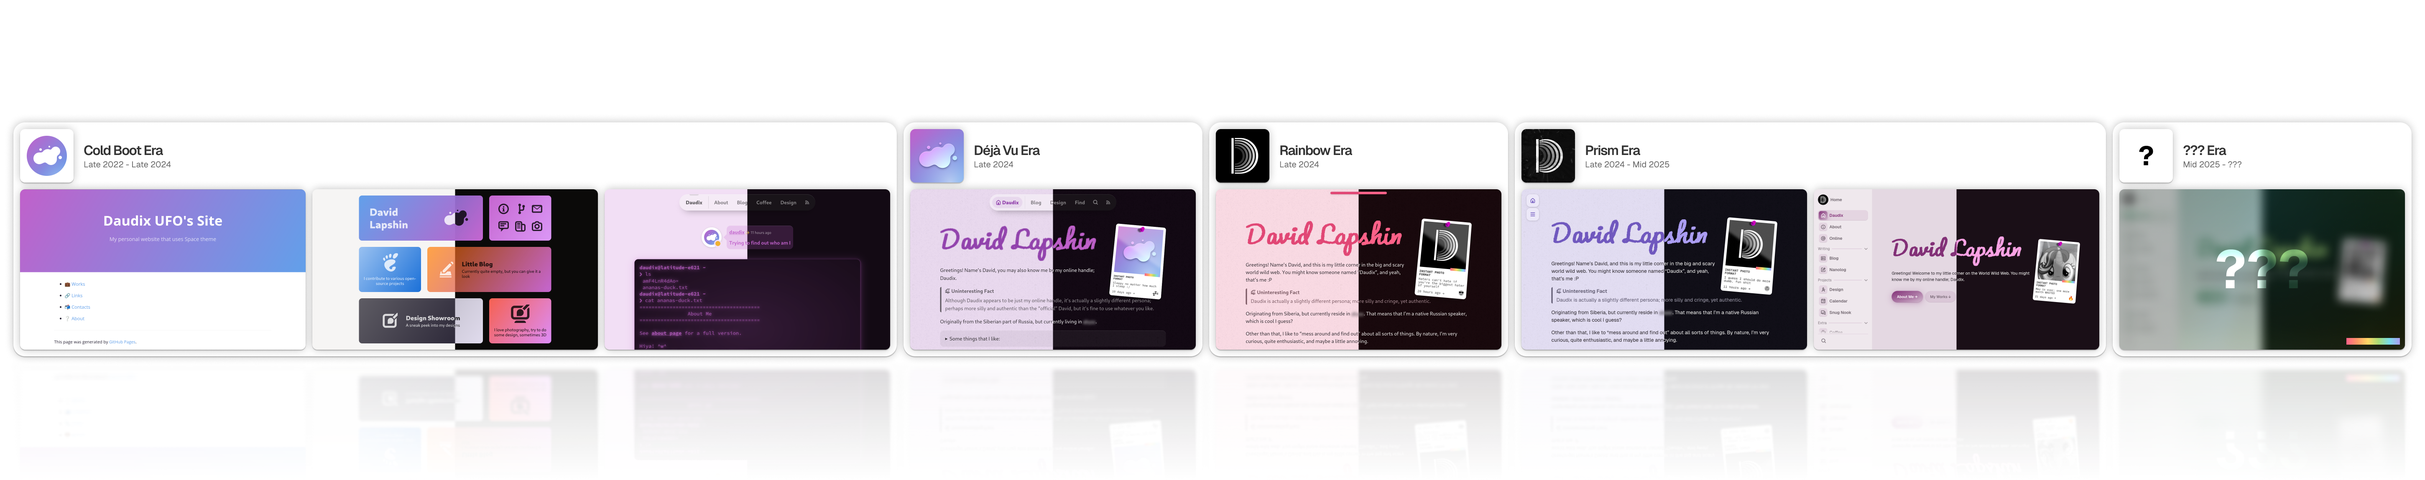
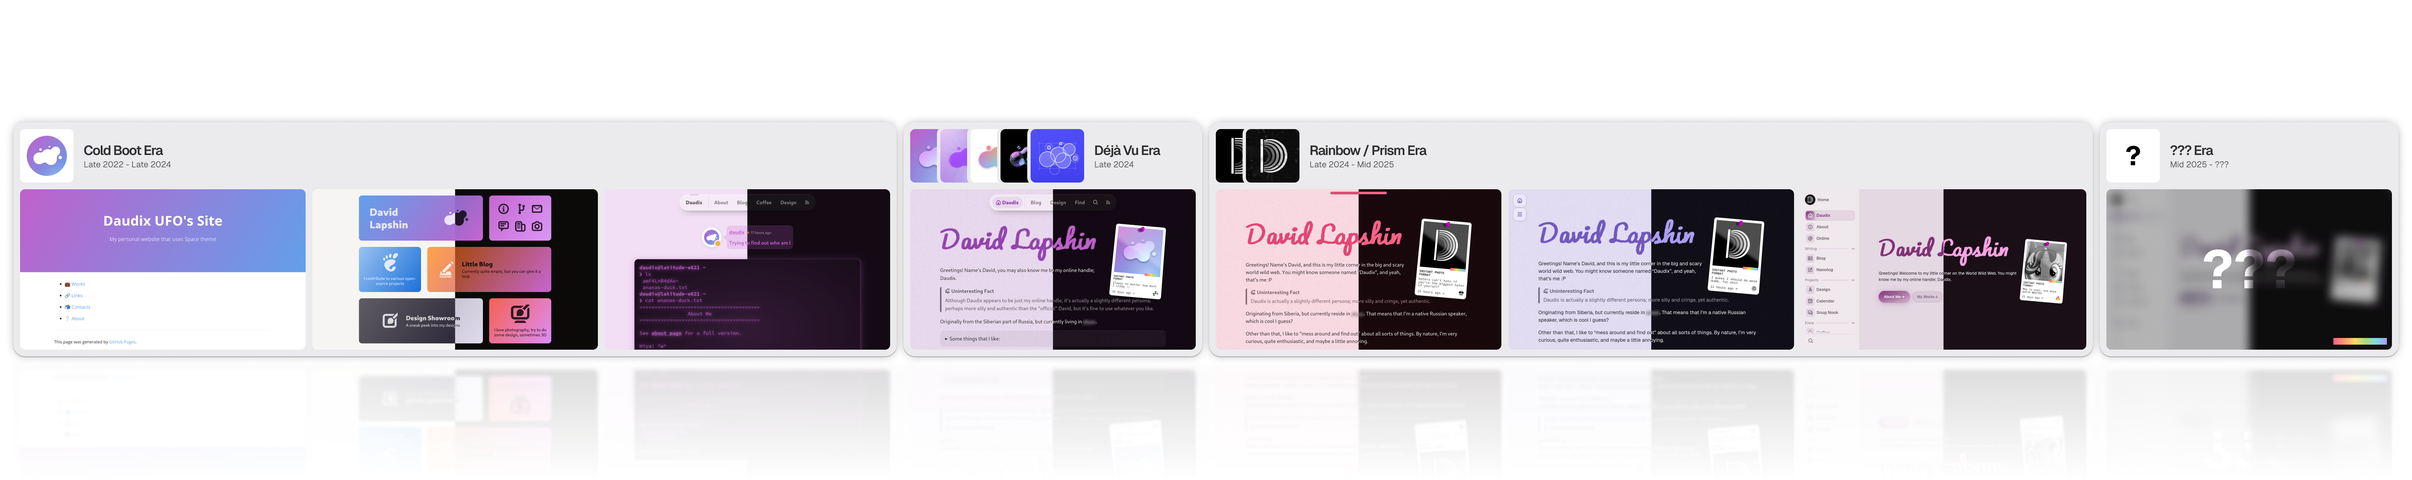
Update to Zola 0.21.0, fix redirects, more work on the blost

diff --git a/sass/blog/new-era/style.scss b/sass/blog/new-era/style.scss
@@ -4,12 +4,13 @@
 	margin-inline: -1rem;
 	margin-block: 1rem;
 	width: calc(100% + 2rem);
-	height: calc(rpx(2298) / 4);
+	height: rpx(575);
 	line-height: 0;
 
 	.overshoot-row {
 		height: 100%;
 		overflow: scroll;
+		scrollbar-width: thin;
 	}
 
 	picture {

diff --git a/templates/shortcodes/now_playing.html b/templates/shortcodes/now_playing.html
@@ -20,7 +20,7 @@
 			<span id="player-artist">Loading…</span>
 		</div>
 	</div>
-	<a id="player-go" href="#main-content">
+	<a id="player-go" href="#main-content" title="View on Last.fm">
 		{{- macros_icon::icon(name="caret-right") -}}
 	</a>
 </article>

diff --git a/content/blog/2025-06-25-new-era/index.md b/content/blog/2025-06-25-new-era/index.md
@@ -12,17 +12,22 @@ styles = ["blog/new-era/style.css"]
 id = ""
 +++
 
-Hello again. Time to talk a bit about my recent changes to this website, plans for this blog, and what to expect, and One More Thing™.
+- Make sure to replace player screenshot with a variant with transparency, i.e. take the node screenshot in epiphany
+- Use footnote for the API hack thing
+- Mention heavy focus shift from fedi to bsky
 
-## Changes: Website
+***
 
-This website has undergone numerous changes in the past... *looks at wall calendar* ...almost half a year (dear God how did it pass by this fast I'm gonna cry), though most of this time I've been working on Ametrine.
+Time to talk a bit about my recent changes to this website, plans for this blog, and One More Thing™.
+
+## Website Changes
+
+This website has undergone numerous changes in the past... *looks at wall calendar* ...almost half a year (dear God how did it pass by this fast I'm gonna cry), though most of this time I've been working on Ametrine, and a bit more so procrastinating and trying my best to not fall.
 
 ### Ametrine
 
-{% alert(note=true) %}
-[Ametrine](https://ametrine.daudix.one) is a new theme of mine. It’s the successor to Duckquill, with a new look, some features added, and some removed. Its goal is to be more flexible and modular than Duckquill.
-{% end %}
+> [!NOTE]
+> [Ametrine](https://ametrine.daudix.one) is a new theme of mine. It’s the successor to Duckquill, with a new look, some features added, and some removed. Its goal is to be more flexible and modular than Duckquill.
 
 One might ask, “hold on, didn’t you *just* [switch away from Duckquill](@/blog/2024-11-02-decoupling-from-duckquill/index.md) to an in-house solution?” And the answer would be... yes.
 
@@ -42,26 +47,23 @@ Fuzzy, I know, but I’ll talk more about Ametrine itself in a follow-up post so
 
 We have quite some changes here:
 
-- [100DaysToOffload](@/100daystooffload/index.md) page has been removed, now it redirects to the tag with the same name, under which all posts with it are listed, serving the same purpose.
+- [100DaysToOffload](@/100daystooffload/_index.md) page has been removed, now it redirects to the tag with the same name, under which all posts with it are listed, serving the same purpose.
 - [Badges](@/badges/index.md) page has been introduced, it contains all the badges and stamps (aka Bumps) from my Neocities site, from which these might soon be removed.
-- [About](@/about/index.md) and [online](@/online/index.md) pages have been merged with [home](@/home/index.md). Useless information has been removed in process, keeping only the essentials. This is to make sure homepage provides all the info at a glance. This decision has been made after looking at statistics, which suggest that subpages get times less visitors than the homepage, and as the purpose of this website is to be a central hub of me on the web, it should fulfill this purpose.
+- [About](@/about/_index.md) and [online](@/online/_index.md) pages have been merged with [home](@/home/index.md). Useless information has been removed in process, keeping only the essentials. This is to make sure homepage provides all the info at a glance. This decision has been made after looking at statistics, which suggest that subpages get times less visitors than the homepage, and as the purpose of this website is to be a central hub of me on the web, it should fulfill this purpose.
 - [Commissions](@/commissions/index.md) have lost most of the services except for a few. Only services that I'm certain I can complete in the best manner have remained.
-- [Snug Nook](@/snug-nook/index.md) was completely redone. Essential info is now presented via fully dynamic widget, which by the way uses an interesting hack; Discord widget API (`https://discord.com/api/guilds/<GUILD_ID>/widget.json`) doesn't expose server icon, description, total member count, and basically any other useful info about the server, however, it does expose an automatically generated invite link (that's being regenerated every now and then), which *does* expose said info via the `https://discord.com/api/invites/<INVITE_CODE>?with_counts=true` endpoint. And so by trimming the `https://discord.com/invite/` bit of the auto-generated invite link we get said invite code. Two API calls, yes, but we get all the info without any additional services or hardcoding anything. I couldn't find any mentions of this hack online, so we might be the first to use it?
+- [Snug Nook](@/snug-nook/index.md) was completely redone. Essential info is now presented via fully dynamic widget, which by the way uses an interesting Discord widget API hack[^1] that I couldn't find any mentions of online, so we might be the first to use it?
 - [Design](@/design/index.md) styling was adjusted to better fit the new design. It now also follows the light/dark mode preference like the rest of the site, instead of being hardcoded to dark mode.
 - [Home](@/home/index.md) besides inheriting "about" and "online" pages' info also got a brand new widget: "Now Playing" powered by Last.fm. Not only it displays currently playing track live, but it also switches to "Last Played" if nothing is playing or playback is paused, accompanied by a nice CD (which is taken from elementary OS icon theme :P) animation. I have experimented with using Discord Rich Presence (RPC) to display not only this but also other activities, but it didn't expose last played song and was much, much more complex, so it was scrapped.
-![](player.png)
 
 ### Source Code
 
 Throughout the site's existence, it was always completely open (not necessarily FOSS), nothing was developed behind closed doors, and deployment always matched the source code at any period in time.
 
-Ever since I [moved away from GitHub](@/blog/2023-07-15-migration-from-github-to-codeberg/index.md) it was hosted on Codeberg, I enjoyed it this entire time despite occasional, sometimes unconventional, downtimes. Recently however they introduced new size limits for, and I quote <q>repositories that are for personal use (e.g. "my website", "my dotfiles"</q>. And as you could guess, my website falls into that category. The new limit for such repositories is 100MB compared to the old 500MB limit. Mine was 200MB+, so I had to move it to GitHub, first as a private repository to prevent Copilot from training its code on it, but then I gave up and chose continuing being open over integrity of my code's originality (it's not very original, rather a compilation of StackOverflow answers, CSS Tricks, and random Git repositories). I have considered moving to my [friend's Forgejo instance](https://git.rootsource.cc), but it doesn't have any sort of CI, so it's not an option at the moment.
+Ever since I [moved away from GitHub](@/blog/2023-07-15-migration-from-github-to-codeberg/index.md) it was hosted on Codeberg, I enjoyed it this entire time despite occasional, sometimes unconventional, downtimes. Recently however they introduced new size limits for, and I quote <q>repositories that are for personal use (e.g. 'my website', 'my dotfiles'</q>. And as you could guess, my website falls into that category. The new limit for such repositories is 100MB compared to the old 500MB limit. Mine was 200MB+, so I had to move it to GitHub, first as a private repository to prevent Copilot from training its code on it, but then I gave up and chose continuing being open over integrity of my code's originality (it's not very original, rather a compilation of StackOverflow answers, CSS Tricks, and random Git repositories). I have considered moving to my [friend's Forgejo instance](https://git.rootsource.cc), but it doesn't have any sort of CI, so it's not an option at the moment.
 
 ### Branding
 
-I have slightly deemphasized my official "branding" and now combine it with things like Discord profile picture. Other badge/88x31 variants has been added as part of this initiative, they're not new, simply older versions and ones from other sites (Neocities).
-
-I'm planning to design a new profile picture in the near future, but at the moment I don't have anything at hand.
+I'm planning to design a new profile picture in the near future, but at the moment I don't have anything at hand, so in the meantime I have slightly deemphasized my official "branding" and now combine it with things like Discord profile picture. Other badge/88x31 variants has been added as part of this initiative, they're not new, simply older versions and ones from other sites (Neocities).
 
 ### Vercel No More
 
@@ -77,33 +79,21 @@ Duckquill and Ametrine were also moved to Netlify because why not.
 
 TL;DR: I like Netlify and Umami as opposed to Vercel and its built-in analytics so far, we'll see how it goes. I still like Vercel by the way, it's just that it doesn't play well with my current setup.
 
-### New Look
+## 100DaysToOffload No More
 
-We now have an Aero-like theming, it's not super accurate, but that wasn't the goal, if it will make someone go "wow this looks familiar, I miss this kind of design" it means I've succeeded. This look is likely temporarily, as there are a lot of fundamental issues with it, but despite that, it looks nice. The background used at this moment is one from Windows Bluehorn (aka Vista development era).
+For the past year I've been [participating](@/100daystooffload/_index.md) in a challenge called [100DaysToOffload](https://100daystooffload.com), and now it is officially over with 31 questionable posts and severe burnout. A bit sad but honestly it's such a relief; this challenge messed up my mental health quite a bit, even if I didn't write much, the feeling of always being under the pressure and forcing myself to come up with post ideas was exhausting. [Taking breaks](@/blog/2024-09-02-taking-a-break/index.md) did not help, it took me almost half a year of not writing anything to get back in shape.
 
-<small>I love Aero. I miss it despite never actually using Windows Vista or 7.</small>
-
-![](aero.png)
-
-## Changes: Blog
-
-Welp, time for some heavy meta.
-
-### 100DaysToOffload
-
-For the past year I've been [participating](@/100daystooffload/index.md) in a challenge called [100DaysToOffload](https://100daystooffload.com), and now it is officially over with 31 questionable posts and severe burnout. A bit sad but honestly it's such a relief; this challenge messed up my mental health quite a bit, even if I didn't write much, the feeling of always being under the pressure and forcing myself to come up with post ideas was exhausting. [Taking breaks](@/blog/2024-09-02-taking-a-break/index.md) did not help, it took me almost half a year of not writing anything to get back in shape.
-
-I wanted to quit it multiple times, but I have set myself a goal to *not* quit it, no matter what, and finish it even if I don't complete it. And so I did, yay. Proving to myself that I am capable of not quitting something prematurely for a year, despite all kinds of obstacles, is valuable to me.
+I wanted to quit it multiple times, but I have set myself a goal to *not* quit it, no matter what, and finish it even if I don't complete it. And so I did, yay. Proving to myself that I am capable of not quitting something prematurely, despite all kinds of obstacles, is valuable to me <span class="spoiler solid">(it's not just about 100DaysToOffload, is it?)</span>.
 
 ![](100daystooffload.jpg)
 
 Now that the results are documented, I can blog at my own pace, with "quality over quantity" approach and...
 
-### Reissue Old Articles
+## Reissue Old Articles
 
-It's no surprise that a big chunk of 100DaysToOffload posts lack quality; they were rushed, are badly written, and don't effectively get the point across. Because of this, I will gradually rewrite such posts, add/remake banners, and replace them with reissues. Title/permalink might change, but I'll try minimize link rot by utilizing redirects, if possible. Some other posts will be unpublished without ever being reissued, but there aren't much such posts.
+It's no surprise that a big chunk of 100DaysToOffload posts lack quality; they were rushed, are badly written, and don't effectively get the point across. Because of this, I will gradually rewrite such posts, add/remake banners, re-tag them, and replace them with reissues. Title/permalink might change, but I'll try minimize link rot by utilizing redirects, if possible. Some other posts will be unpublished without ever being reissued, but there aren't much such posts.
 
-### My Own Blog
+## A Blog of My Own
 
 Type of promise presidents make during inauguration: "I'll try to blog about whatever I want".
 
@@ -119,7 +109,7 @@ Poll results suggest that majority is in favor of this.
 
 ![](poll-results.png)
 
-Yes, it's only 10 votes, but look at it this way: It's a whooping *10* votes!!1
+Yes, it's only 10 votes, but look at it this way: It's a whopping *10* votes!!1
 
 In the end I'm left uncertain as to what to do with Neocities after this, all that is left is a homepage that provides no info and somewhat cool styling, and a fun 404. I don't want it to go down the [gmi.daudix.one](https://gmi.daudix.one) path of dying silently.
 
@@ -129,24 +119,24 @@ Behold... the title of this article, finally!
 
 Okay so what's this all about.
 
-The concept of eras isn't something new, even for myself; My first era titled "Cold Boot" started back in late 2022. It was always a behind the scenes thing that wasn't really public besides folder names in the ["assets" repository](https://github.com/daudix/assets/tree/main/daudix). I have considered expanding this concept half a year ago, on December 10th, 2024. This idea didn't go beyond this mockup however, as I considered it way too silly of an idea. Profile pictures continued using this approach internally though, for example my previous era was called "Prism", which was a continuation of the "Rainbow" era.
+I like to split my work and my own self into loosely defined "eras", each era marks a chapter in my life, and is usually accompanied by a profile picture redesign and/or website design refresh.
+
+My first era, titled "Cold Boot". started back in late 2022. Eras were always a "behind the scenes" thing that wasn't really public besides folder names in the ["assets" repository](https://github.com/daudix/assets/tree/main/daudix). I have considered expanding this concept <abbr title="December 10th, 2024">half a year ago</abbr>. This idea didn't go beyond this mockup however, as I deemed it way too silly of an idea. Profile pictures continued using this approach internally though, for example my previous era was called "Prism", which was a continuation of the "Rainbow" era.
 
 ![](eras-old.png)
 
-Recently however, I came across Vylet's video explaining her eras, which is relatable in so many ways and is pretty much what I was going to do. It have inspired me to push this idea further, and whilst I won't maintain a spreadsheet of each era like she do, I too will have some era separation, and will borrow the idea of naming eras retroactively.
+Recently however, I came across Vylet's video explaining her eras, which is relatable in so many ways and is pretty much what I was going to do, it's just crazy. It have inspired me to push this idea further, and whilst I won't maintain a spreadsheet of each era like she does, I too will have a more public era separation, and will be naming eras retroactively from now on.
 
 {{ youtube(id="7rZsiF2nckA", start="257") }}
 
-What is the era stuff, precisely? I'll quote Vylet from that video, as I couldn't say it better and it matches my own vision:
-
 > Each era represents a substantial time in my life, defined by paradigm shifts, life changes, and overall project direction. I intend to name these with retrospect, so every new era will simply begin as three question marks, and then will be named when it becomes apparent when to find that part of my life in work.
 
-And so, here is my current era timeline.
+And so, here is my current "era timeline".
 
 <div id="eras-timeline">
     <div class="overshoot-row">
         <picture>
-            <source srcset="eras-dark.png"  media="(prefers-color-scheme: dark)"/>
+            <source srcset="eras-dark.png"  media="(prefers-color-scheme: dark)" />
             <img src="eras.png" class="transparent no-hover" />
         </picture>
     </div>
@@ -155,8 +145,14 @@ And so, here is my current era timeline.
   <a href="eras-hd.png">View in Full Resolution</a>
 </div>
 
-Why current era is blurred and untitled? That's the fun part; this era is ongoing, the screenshot is not final, and as I already mentioned, era cannot be titled yet as they're titled retroactively. Visually changes between eras aren't huge, but it's not just about website visuals, isn't it?
+Current era is blurred and untitled, as this era is still ongoing, the screenshot is not final, and as I already mentioned, era cannot be titled yet as they're titled retroactively. Visually changes between eras aren't huge, but it's not just about website visuals, isn't it?
+
+## Mental Health
+
+It was rough. I survived, however.
 
 ## Conclusion
 
-This blog post is a little summary of what I was doing and planning to do for a while, and I hope that this will mark a new more hopeful chapter in my life and this blog. Thanks for reading, caring, and just, being here. Can't wait to see you in the next one!
+This blog post is a little summary of what I was doing and planning to do for a while, and I hope that this will mark a new, more hopeful chapter in my life and this blog. Thanks for reading, caring, and just being here. Can't wait to see you in the next one!
+
+[^1]: Discord widget API (`https://discord.com/api/guilds/<GUILD_ID>/widget.json`) doesn't expose server icon, description, total member count, and basically any other useful info about the server, however, it does expose an automatically generated invite link (that's being regenerated every now and then), which *does* expose said info via the `https://discord.com/api/invites/<INVITE_CODE>?with_counts=true` endpoint. And so by trimming the `https://discord.com/invite/` bit of the auto-generated invite link we get said invite code. Two API calls, yes, but we get all the info without any additional services or hardcoding anything.

diff --git a/content/blog/2024-08-13-deploying-to-codeberg-pages/index.md b/content/blog/2024-08-13-deploying-to-codeberg-pages/index.md
@@ -17,9 +17,8 @@ id = "112956494344143118"
 
 <small>Photo by [Lubomir Minar](https://www.lubomirminar.com) on [Unsplash (archived)](https://web.archive.org/web/20210124002804/https://unsplash.com/photos/3K6ZkYBj2Xo).</small>
 
-{% alert(note=true) %}
-This guide focuses on the Zola <abbr title="Static site generator">SSG</abbr>, but other SSGs like Hugo and Jekyll should work with this guide as well.
-{% end %}
+> [!NOTE]
+> This guide focuses on the Zola <abbr title="Static site generator">SSG</abbr>, but other SSGs like Hugo and Jekyll should work with this guide as well.
 
 This guide is intended to help with the process of getting a Zola website up and running using Codeberg and Codeberg pages; some of the steps are confusing, so this article tries to clear them up.
 
@@ -72,9 +71,8 @@ Then, initialize a new Zola site with `zola init --force`. You can simply spam <
 
 Now you'll need to add the Duckquill theme as a Git submodule:
 
-{% alert(note=true) %}
-A Git submodule is a repository inside another repository. When you add a submodule, Git adds it to a special `.gitmodules` file, which can then be read by Git somewhere else and clone the needed repository in place, which will be helpful later when we set up the <abbr title="Contineventuous integration">CI</abbr> workflow.
-{% end %}
+> [!NOTE]
+> A Git submodule is a repository inside another repository. When you add a submodule, Git adds it to a special `.gitmodules` file, which can then be read by Git somewhere else and clone the needed repository in place, which will be helpful later when we set up the <abbr title="Contineventuous integration">CI</abbr> workflow.
 
 ```bash
 git submodule init
@@ -88,9 +86,8 @@ cd themes/duckquill
 git checkout tags/v4.2.1
 ```
 
-{% alert(tip=true) %}
-You can check the latest release here: <https://codeberg.org/daudix/duckquill/releases>
-{% end %}
+> [!TIP]
+> You can check the latest release here: <https://codeberg.org/daudix/duckquill/releases>
 
 Now you can try serving the site locally:
 
@@ -156,9 +153,8 @@ Now we can push the changes to Codeberg and set up the CI to build and deploy ou
 
 ## Setting up the CI
 
-{% alert(important=true) %}
-Before we get to setting up the CI, we first need to get access to it. You'll need to fill [the following form](https://codeberg.org/Codeberg-e.V./requests/issues/new?template=ISSUE_TEMPLATE%2fWoodpecker-CI.yaml) at [Codeberg-e.V./requests](https://codeberg.org/Codeberg-e.V./requests) repository and wait for approval. After your request been approved, we can proceed further.
-{% end %}
+> [!IMPORTANT]
+> Before we get to setting up the CI, we first need to get access to it. You'll need to fill [the following form](https://codeberg.org/Codeberg-e.V./requests/issues/new?template=ISSUE_TEMPLATE%2fWoodpecker-CI.yaml) at [Codeberg-e.V./requests](https://codeberg.org/Codeberg-e.V./requests) repository and wait for approval. After your request been approved, we can proceed further.
 
 Copy [the following Woodpecker workflow](https://codeberg.org/Codeberg-CI/examples/src/branch/main/Zola/.woodpecker.yaml) example from [Codeberg-CI/examples](https://codeberg.org/Codeberg-CI/examples) and put it in the `.woodpecker.yaml` file in the root of your project. If you want the CI to be able to run manually, add `manual` to steps that have the `push` events in them.
 

diff --git a/content/blog/2023-07-15-migration-from-github-to-codeberg/index.md b/content/blog/2023-07-15-migration-from-github-to-codeberg/index.md
@@ -40,9 +40,8 @@ Good question, I honestly don't know. As a matter of fact, GitLab is a bit confu
 
 ## Migration
 
-{% alert(note=true) %}
-I have found about that [Dan Erat](https://www.erat.org) have published an article about his migration from GitHub to Codeberg before this one, [check it out](https://www.erat.org/codeberg.html).
-{% end %}
+> [!NOTE]
+> I have found about that [Dan Erat](https://www.erat.org) have published an article about his migration from GitHub to Codeberg before this one, [check it out](https://www.erat.org/codeberg.html).
 
 After final decision that I will migrate my personal repositories to Codeberg I have created a [poll](https://mstdn.social/@Daudix/110680533037666405) on Mastodon, in which asked what to do with repositories on GitHub, people decided that adding small note in README that tells about migration and gives a link to repository on Codeberg, and then archiving were the best approach, [and so I did it!](https://mstdn.social/@Daudix/110685982530642051)
 
@@ -69,9 +68,8 @@ Speaking of Codeberg pages, I have successfully recreated the workflow of GitHub
 
 #### Woodpecker
 
-{% alert(tip=true) %}
-See [blog post](https://jan.wildeboer.net/2022/07/Woodpecker-CI-Jekyll/) by Jan Wildeboer for better understanding how the CI works, since this guy created the workflow used here.
-{% end %}
+> [!TIP]
+> See [blog post](https://jan.wildeboer.net/2022/07/Woodpecker-CI-Jekyll/) by Jan Wildeboer for better understanding how the CI works, since this guy created the workflow used here.
 
 First, I have requested and waited for manual approval to access to Woodpecker CI by opening an issue [here](https://codeberg.org/Codeberg-e.V./requests/issues/new/choose) and selecting _Woodpecker CI Access_, it took a few hours, so when I woke up I already had access.
 
@@ -149,9 +147,8 @@ And `cbtoken` should contain the secret we saved earlier
 
 Make sure these two secrets have successfully created and make some changes in `blog-source` to trigger the CI, it should finish successfully.
 
-{% alert(tip=true) %}
-If you don't want to trigger the CI (the change doesn't affect content for example) you can add `[CI SKIP]` to your commit message to skip the CI.
-{% end %}
+> [!TIP]
+> If you don't want to trigger the CI (the change doesn't affect content for example) you can add `[CI SKIP]` to your commit message to skip the CI.
 
 ![ci successful](ci-successful.png)
 

diff --git a/content/blog/2024-07-18-archiving-gradience/index.md b/content/blog/2024-07-18-archiving-gradience/index.md
@@ -25,13 +25,11 @@ id = "112804700367926214"
 
 Two years ago today, a project called AdwCustomizer emerged; a libadwaita app that allowed users to recolor their libadwaita and GTK3 apps (if the [adw-gtk3](https://github.com/lassekongo83/adw-gtk3) theme was present) using an easy-to-use interface.
 
-{% alert(important=true) %}
-My stance on theming hasn't changed; I still believe that distributions should *not* ship theming out of the box. It's up to the user to decide whether or not they are comfortable with broken applications. See ["please don't theme our apps"](https://stopthemingmy.app).
-{% end %}
+> [!IMPORTANT]
+> My stance on theming hasn't changed; I still believe that distributions should *not* ship theming out of the box. It's up to the user to decide whether or not they are comfortable with broken applications. See ["please don't theme our apps"](https://stopthemingmy.app).
 
-{% alert(note=true) %}
-Personally, I've stopped theming my desktop for a while; I've been using vanilla GNOME for about a year now, with only a few extensions that add some missing features that I really need, like automatic dark mode at sunset.
-{% end %}
+> [!NOTE]
+> Personally, I've stopped theming my desktop for a while; I've been using vanilla GNOME for about a year now, with only a few extensions that add some missing features that I really need, like automatic dark mode at sunset.
 
 I was absolutely thrilled to be one of the first to discover this amazing app! I had been thinking about such an app literally just a few days prior to this. I even posted about this app on [r/gnome](https://old.reddit.com/r/gnome/comments/w2ehe2/libadwaita_and_adwgtk3_recoloring_demo_using/).
 

diff --git a/content/blog/2024-02-19-syncthing-in-toolbx/index.md b/content/blog/2024-02-19-syncthing-in-toolbx/index.md
@@ -13,9 +13,8 @@ Today I wanted to reduce the amount of layered packages on my Silveblue install,
 
 The issue is that it needs to autostart on login, otherwise it's useless. Autostart using the GNOME Tweaks from inside Toolbx didn't work, because it points to the regular binary location instead of Toolbx.
 
-{% alert(note=true) %}
-There are [a few](https://www.qualityology.com/tech/syncthing-in-toolbox-on-fedora-silverblue-with-systemd/) [solutions](https://mmarco94.github.io/linux-guides/immutable-os/syncthing), and there's also [SyncThingy](https://github.com/zocker-160/SyncThingy), but I wanted to have the *original* Syncthing and easy way of solving things; manually creating Podman container when we have Toolbx seemed like overengineering.
-{% end %}
+> [!NOTE]
+> There are [a few](https://www.qualityology.com/tech/syncthing-in-toolbox-on-fedora-silverblue-with-systemd/) [solutions](https://mmarco94.github.io/linux-guides/immutable-os/syncthing), and there's also [SyncThingy](https://github.com/zocker-160/SyncThingy), but I wanted to have the *original* Syncthing and easy way of solving things; manually creating Podman container when we have Toolbx seemed like overengineering.
 
 And so I backed up the `~/.config/autostart/syncthing-start.desktop` before uninstalling the Syncthing overlay, located the Toolbx binary using `whereis toolbox`, replaced `/usr/bin/syncthing` in the backed up Syncthing desktop file with `/usr/bin/toolbox run syncthing`, put it back and logged out...
 

diff --git a/content/snug-nook/index.md b/content/snug-nook/index.md
@@ -13,9 +13,8 @@ no_header = true
 
 Ever wanted to join yet another Discord server where you can act all silly and still have productive conversations? Had enough of the toxisity and, um, freakiness? Want to meet some cool new people? In that case, <span class="rainbow"><strong>Snug Nook</strong></span> fits the bill. Gluten-free and is proven safe by the FDA. Probably.
 
-{% alert(note=true) %}
-Read about its creation and the motivation behind it [here](@/blog/2024-10-31-snug-nook/index.md).
-{% end %}
+> [!NOTE]
+> Read about its creation and the motivation behind it [here](@/blog/2024-10-31-snug-nook/index.md).
 
 The server isn't special in itself, there are many servers out there, however, the wonderful people on it are. It is meant to be cozy, welcoming, and friendly, which means toxicity, doxxing, drama, suicide threats, <span class="spoiler">NSFW</span>, and the like are not welcome.
 
@@ -41,9 +40,8 @@ At Snug Nook we have many unique "traditions", and weekend rebrand is one of the
 
 Discord isn't your cup of tea? No big deal, we provide a few bridges that, whilist lacking some features and stability, allow chatting with Discord folks:
 
-{% alert(caution=true) %}
-Experience can be significantly worse when using these; messages could be delayed, sent in wrong order, or not sent at all.
-{% end %}
+> [!CAUTION]
+> Experience can be significantly worse when using these; messages could be delayed, sent in wrong order, or not sent at all.
 
 <div class="icon-grid">
 

diff --git a/content/blog/2024-06-25-my-first-domain/index.md b/content/blog/2024-06-25-my-first-domain/index.md
@@ -10,11 +10,10 @@ user = "daudix"
 id = "112675082269886749"
 +++
 
-{% alert(note=true) %}
-I know I said in the [previous post](@/blog/2024-06-19-not-that-latitude/index.md) that the next post would be about how my Pixel 3 committed suicide, but I didn't quite feel like publishing 3 posts in a row about my devices dying and being replaced, plus I haven't researched the topic enough and don't have much to tell about the replacement, so it will stay in the drafts folder for a bit longer.
-
-I do have another post in the works and expect it to be quite interesting, so yeah!
-{% end %}
+> [!NOTE]
+> I know I said in the [previous post](@/blog/2024-06-19-not-that-latitude/index.md) that the next post would be about how my Pixel 3 committed suicide, but I didn't quite feel like publishing 3 posts in a row about my devices dying and being replaced, plus I haven't researched the topic enough and don't have much to tell about the replacement, so it will stay in the drafts folder for a bit longer.
+>
+> I do have another post in the works and expect it to be quite interesting, so yeah!
 
 Today—I mean, the 22nd of June—I fulfilled my little dream: I got my very own domain!
 

diff --git a/content/blog/2023-06-12-gemini-exploring-the-cozy-world-of-capsules-and-space/index.md b/content/blog/2023-06-12-gemini-exploring-the-cozy-world-of-capsules-and-space/index.md
@@ -10,15 +10,13 @@ toc = true
 
 This post is made to give you basic understanding of what Gemini is, what are Capsules and Gemlogs, modern-day use of retro image techniques and text-based art
 
-{% alert(tip=true) %}
-I highly recommend you to read geminiquickst.art before this post, because it provides a lot of valuable information about Gemini, and it is better written than this post.
-{% end %}
+> [!TIP]
+> I highly recommend you to read geminiquickst.art before this post, because it provides a lot of valuable information about Gemini, and it is better written than this post.
 
 ## What Is Gemini
 
-{% alert(note=true) %}
-For more accurate and in-depth answer to this question see [Project Gemini FAQ](https://gemini.circumlunar.space/docs/faq.gmi)
-{% end %}
+> [!NOTE]
+> For more accurate and in-depth answer to this question see [Project Gemini FAQ](https://gemini.circumlunar.space/docs/faq.gmi)
 
 Gemini is how some people call it - "smol web" - <abbr title="World Wide Web (WWW)">web</abbr> without distracting elements such as ads, stylesheets that define website look, various tracking scripts, cookies and etc.
 

diff --git a/content/blog/2024-07-31-story-of-luddism/index.md b/content/blog/2024-07-31-story-of-luddism/index.md
@@ -12,9 +12,8 @@ user = "daudix"
 id = "112878216253904523"
 +++
 
-{% alert(tip=true) %}
-I recommend giving [this article](https://www.smithsonianmag.com/history/what-the-luddites-really-fought-against-264412/) a read, it tells a story of Luddism in great details. It's been published back in 2011 and it's still the best article out of ones that I read when researching this topic.
-{% end %}
+> [!TIP]
+> I recommend giving [this article](https://www.smithsonianmag.com/history/what-the-luddites-really-fought-against-264412/) a read, it tells a story of Luddism in great details. It's been published back in 2011 and it's still the best article out of ones that I read when researching this topic.
 
 Before we get to modern times and neo-Luddism–the philosophy that opposes many forms of modern technology–we need to understand what the original Luddism was. And no, it's not what you think it is today.
 

diff --git a/content/blog/2024-02-06-auto-and-manual-dark-themes-are-pain/index.md b/content/blog/2024-02-06-auto-and-manual-dark-themes-are-pain/index.md
@@ -9,10 +9,9 @@ user = "daudix"
 id = "111881385228724178"
 +++
 
-{% alert(note=true) %}
-~~This is a post in a new format called "microblog", not quite a Mastodon post nor a full-blown blog post, you got the idea :)~~
-Changed my mind, blog (even small) is here, microblog is on Fediverse, no in between.
-{% end %}
+> [!NOTE]
+> ~~This is a post in a new format called "microblog", not quite a Mastodon post nor a full-blown blog post, you got the idea :)~~
+> Changed my mind, blog (even small) is here, microblog is on Fediverse, no in between.
 
 I was just working on adding a manual dark mode toggle to Duckquill as [some people wanted to see it](https://codeberg.org/daudix/duckquill/issues/5), and it turned out to be a huge pain (who might've though), it needs either:
 
